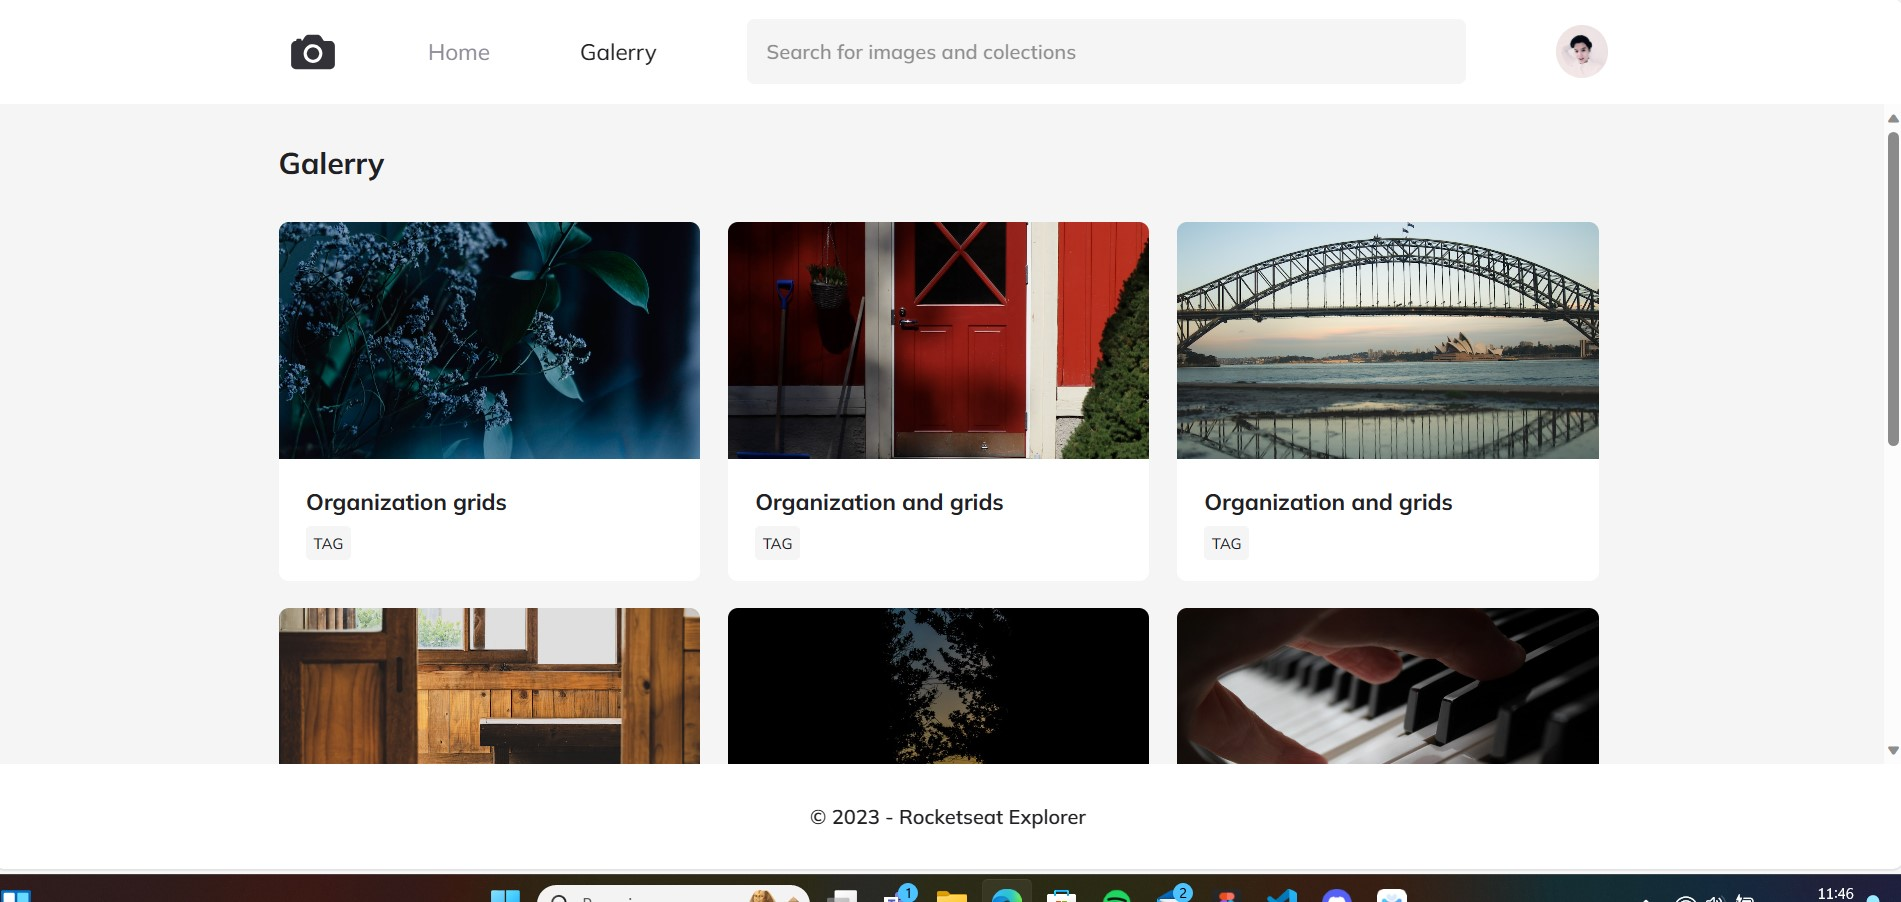
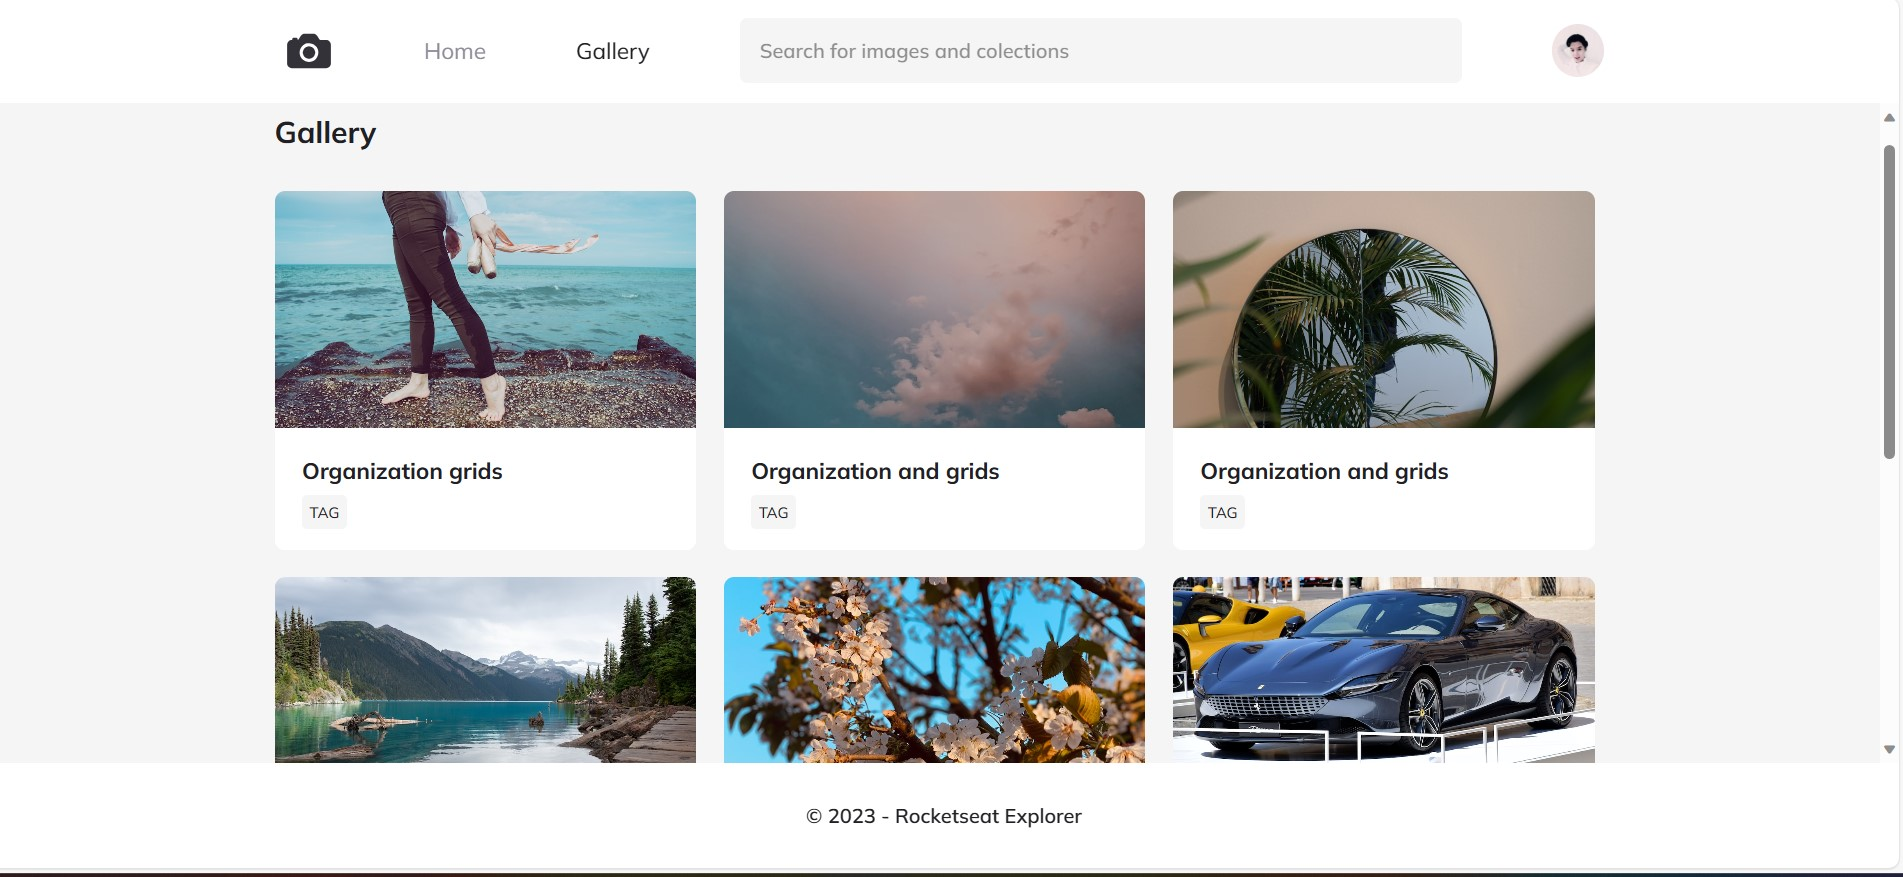
adjust words index.html

diff --git a/index.html b/index.html
@@ -20,7 +20,7 @@
         <img src="./img/camera.svg" alt="camera">
         <ul>
           <li>Home</li>
-          <li class="active">Galerry</li>
+          <li class="active">Gallery</li>
         </ul>
       </nav>
 
@@ -36,7 +36,7 @@
 
     <main>
       <div class="container">
-        <h1>Galerry</h1>
+        <h1>Gallery</h1>
         <section class="gallery">
 
           <figure class="item">
